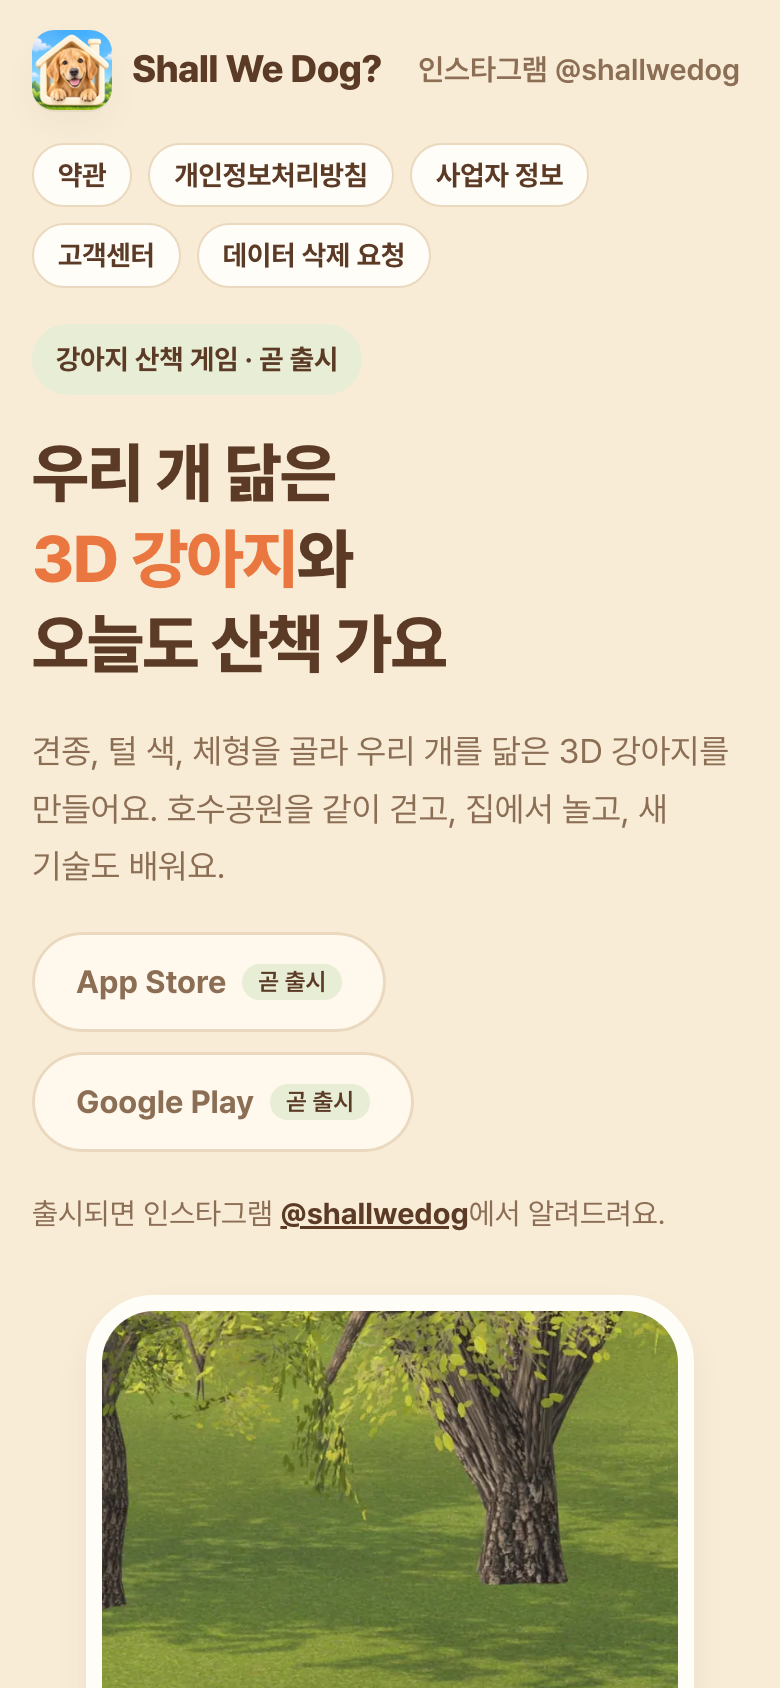
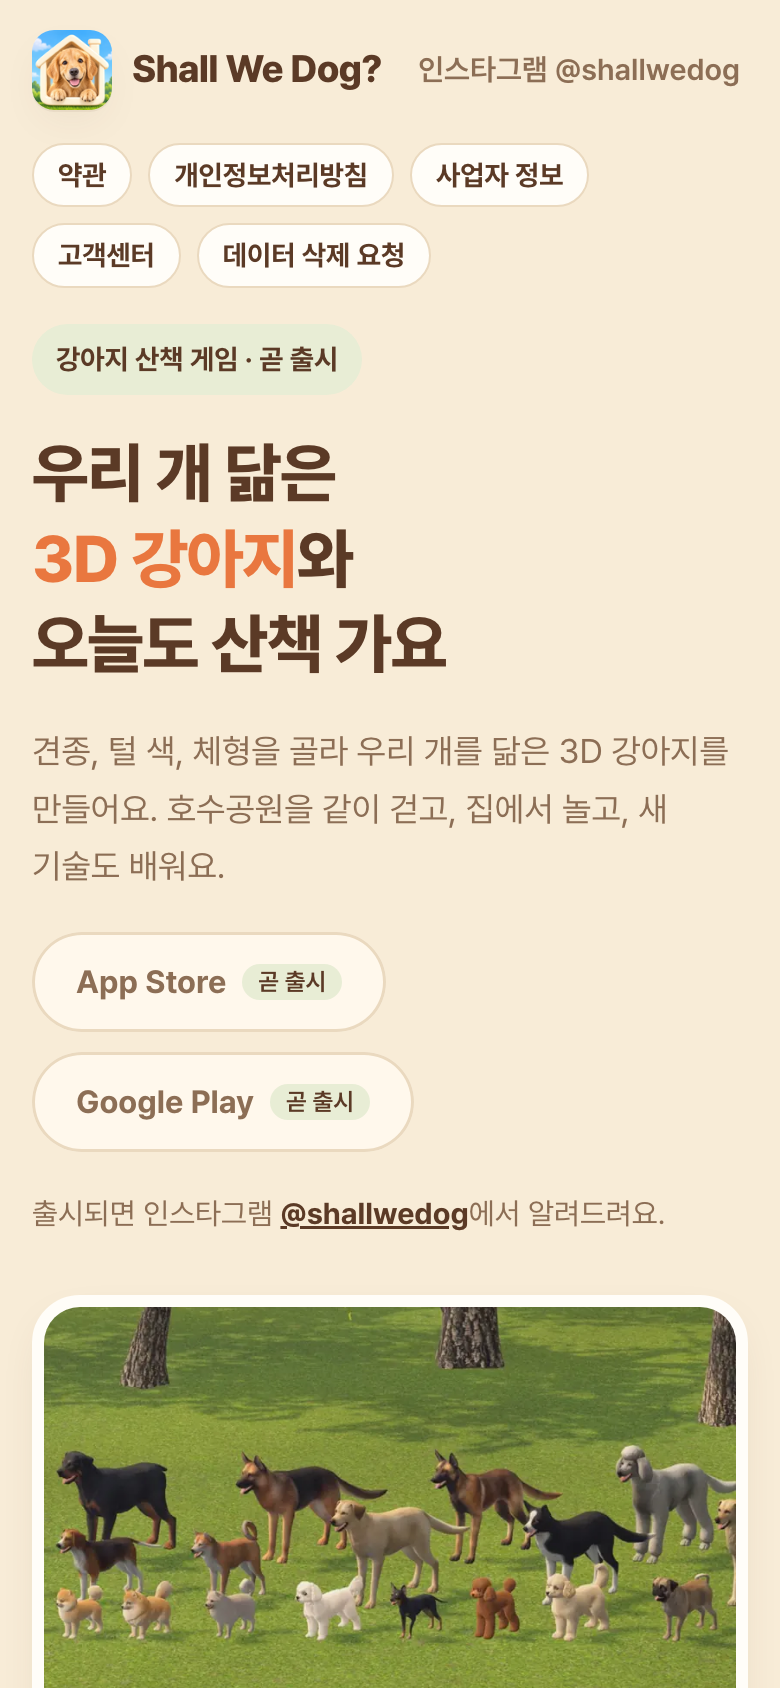
휴대폰 첫 화면: 단체 사진 가로 4:3으로 강아지가 바로 보이게 · 캡처 다시

Changed region(s): [[0.0308, 0.7701, 0.9846, 1.0]]

diff --git a/ja/index.html b/ja/index.html
@@ -70,7 +70,7 @@
       <p class="notice">配信が始まったらInstagram <a href="https://www.instagram.com/shallwedog/" rel="noopener">@shallwedog</a>でお知らせします。</p>
     </div>
     <div class="hero-pic">
-      <div class="phone"><img src="/assets/img/hero-lineup.webp" width="720" height="1280" alt="公園の芝生に集まった、さまざまな犬種の3Dの犬たち(ゲーム画面)" fetchpriority="high"></div>
+      <div class="phone"><picture><source media="(max-width:859px)" srcset="/assets/img/hero-lineup-m.webp" width="800" height="600"><img src="/assets/img/hero-lineup.webp" width="720" height="1280" alt="公園の芝生に集まった、さまざまな犬種の3Dの犬たち(ゲーム画面)" fetchpriority="high"></picture></div>
       <p class="tag">37犬種<span>公園に勢ぞろい</span></p>
     </div>
   </section>

diff --git a/index.html b/index.html
@@ -70,7 +70,7 @@
       <p class="notice">출시되면 인스타그램 <a href="https://www.instagram.com/shallwedog/" rel="noopener">@shallwedog</a>에서 알려드려요.</p>
     </div>
     <div class="hero-pic">
-      <div class="phone"><img src="/assets/img/hero-lineup.webp" width="720" height="1280" alt="게임 속 견종이 공원 잔디밭에 한자리에 모인 3D 강아지들" fetchpriority="high"></div>
+      <div class="phone"><picture><source media="(max-width:859px)" srcset="/assets/img/hero-lineup-m.webp" width="800" height="600"><img src="/assets/img/hero-lineup.webp" width="720" height="1280" alt="게임 속 견종이 공원 잔디밭에 한자리에 모인 3D 강아지들" fetchpriority="high"></picture></div>
       <p class="tag">견종 37종<span>공원에 다 모였어요</span></p>
     </div>
   </section>

diff --git a/es/index.html b/es/index.html
@@ -70,7 +70,7 @@
       <p class="notice">Anunciaremos el lanzamiento en Instagram <a href="https://www.instagram.com/shallwedog/" rel="noopener">@shallwedog</a>.</p>
     </div>
     <div class="hero-pic">
-      <div class="phone"><img src="/assets/img/hero-lineup.webp" width="720" height="1280" alt="Perros 3D de muchas razas reunidos en el césped del parque (pantalla del juego)" fetchpriority="high"></div>
+      <div class="phone"><picture><source media="(max-width:859px)" srcset="/assets/img/hero-lineup-m.webp" width="800" height="600"><img src="/assets/img/hero-lineup.webp" width="720" height="1280" alt="Perros 3D de muchas razas reunidos en el césped del parque (pantalla del juego)" fetchpriority="high"></picture></div>
       <p class="tag">37 razas<span>Todas juntas en el parque</span></p>
     </div>
   </section>

diff --git a/en/index.html b/en/index.html
@@ -70,7 +70,7 @@
       <p class="notice">We’ll announce the launch on Instagram <a href="https://www.instagram.com/shallwedog/" rel="noopener">@shallwedog</a>.</p>
     </div>
     <div class="hero-pic">
-      <div class="phone"><img src="/assets/img/hero-lineup.webp" width="720" height="1280" alt="Game screen of 3D dogs of many breeds gathered on the park lawn" fetchpriority="high"></div>
+      <div class="phone"><picture><source media="(max-width:859px)" srcset="/assets/img/hero-lineup-m.webp" width="800" height="600"><img src="/assets/img/hero-lineup.webp" width="720" height="1280" alt="Game screen of 3D dogs of many breeds gathered on the park lawn" fetchpriority="high"></picture></div>
       <p class="tag">37 breeds<span>All together in the park</span></p>
     </div>
   </section>

diff --git a/assets/css/site.css b/assets/css/site.css
@@ -213,3 +213,9 @@ p{margin:0}
 .walkpic{margin:22px auto 0; max-width:420px}
 .walkpic img{display:block; width:100%; height:auto; border-radius:18px; box-shadow:var(--shadow)}
 .walkpic figcaption{font-size:13px; font-weight:600; color:var(--sub); margin-top:8px; text-align:center}
+.phone picture{display:block; width:100%; height:100%}
+@media (max-width:859px){
+  .hero-pic{width:100%; max-width:420px}
+  .phone{aspect-ratio:4/3; border-radius:24px; border-width:6px}
+  .hero-pic .tag{bottom:-16px; left:12px}
+}
